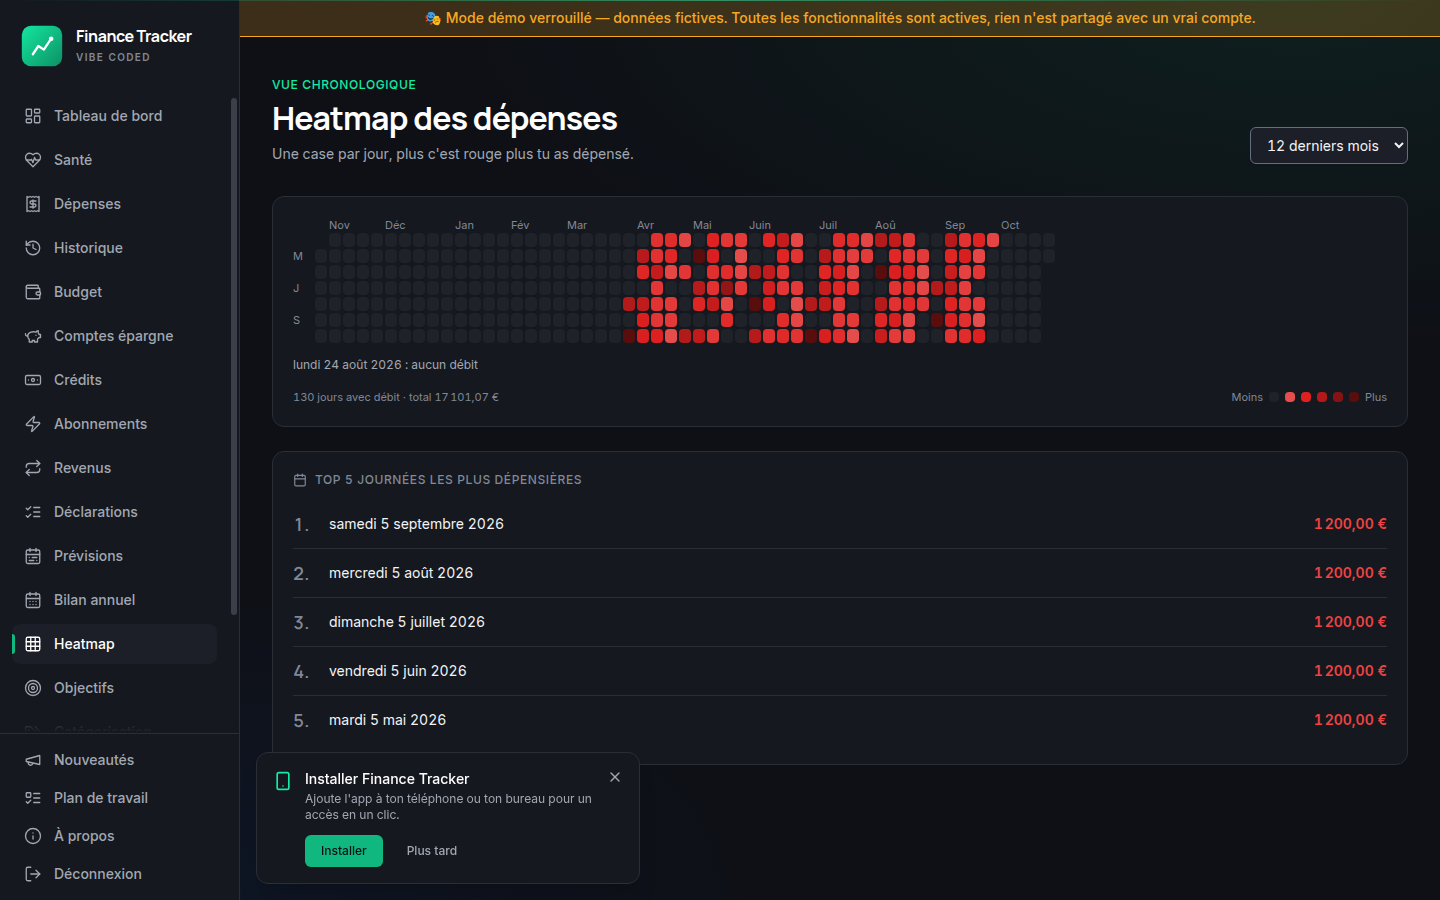
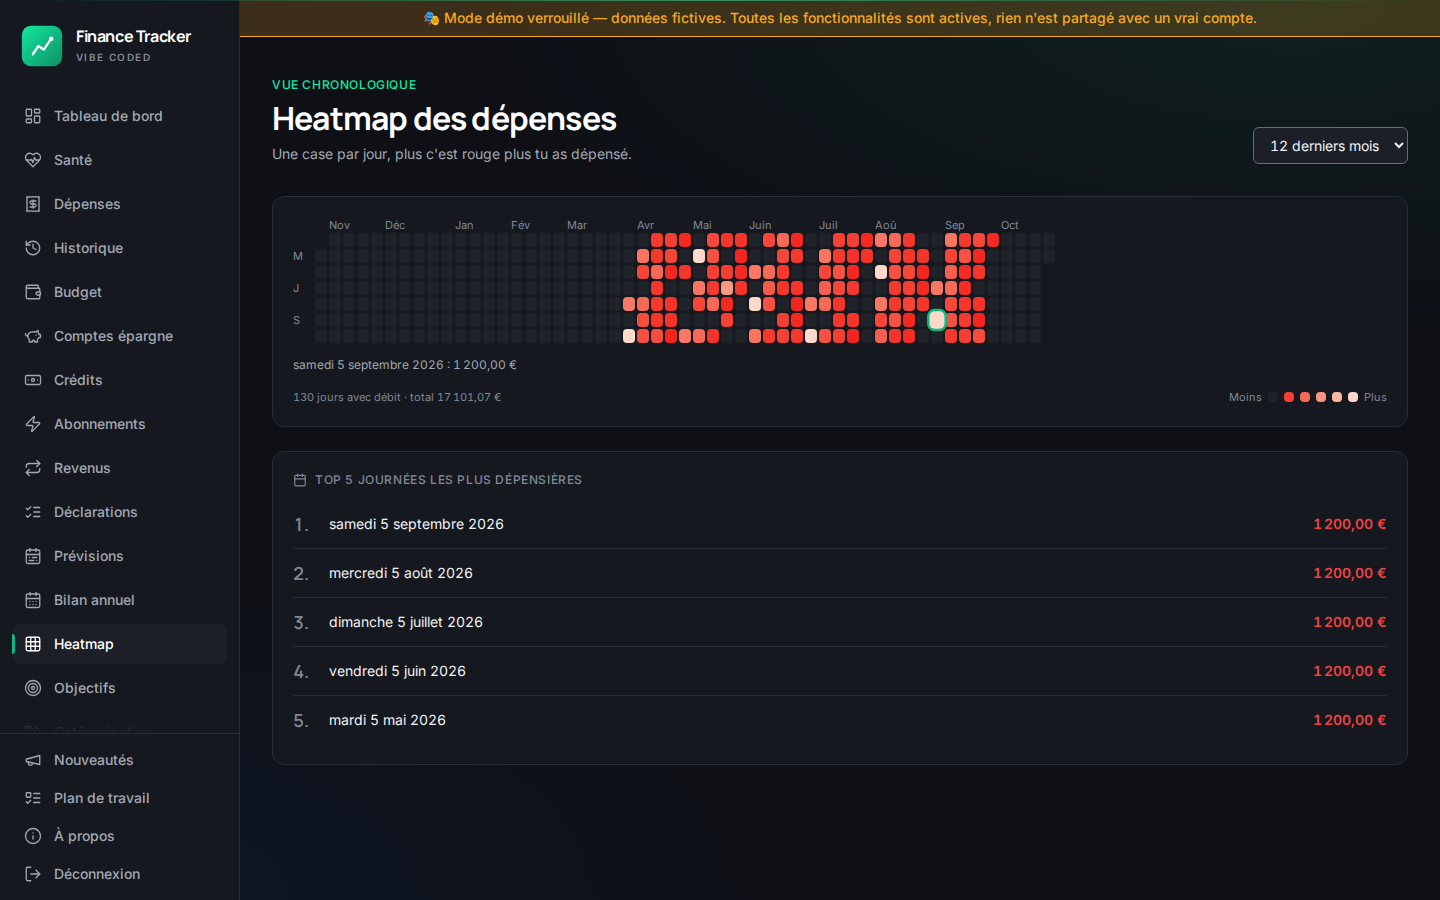
docs(L36): heatmap — captures Nouveautés régénérées avec la nouvelle échelle de couleur
Mêmes noms (1440 et 390 px), démo isolée local/ux-demo.sh ; `npm run news`
rejoué (tailles, journal compilé). Sur la démo, le résumé et le Top 5 nomment
désormais la même journée (5 septembre 2026).

diff --git a/frontend/public/nouveautes-data/index.html b/frontend/public/nouveautes-data/index.html
@@ -20,7 +20,7 @@ code { font-size: 13px; padding: 1px 4px; border-radius: 4px; background: var(--
 </style>
 </head>
 <body>
-<header><h1>finance-tracker — nouveautés</h1><p class="meta">Généré le 2026-10-27 21:52 par cadence</p></header>
+<header><h1>finance-tracker — nouveautés</h1><p class="meta">Généré le 2026-10-27 22:19 par cadence</p></header>
 <main>
 <article id="2026-10-27-heatmap-des-depenses-erreurs-dites-lecture-au-toucher-mois-r">
   <h2>Heatmap des dépenses : erreurs dites, lecture au toucher, mois récents en vue</h2>
